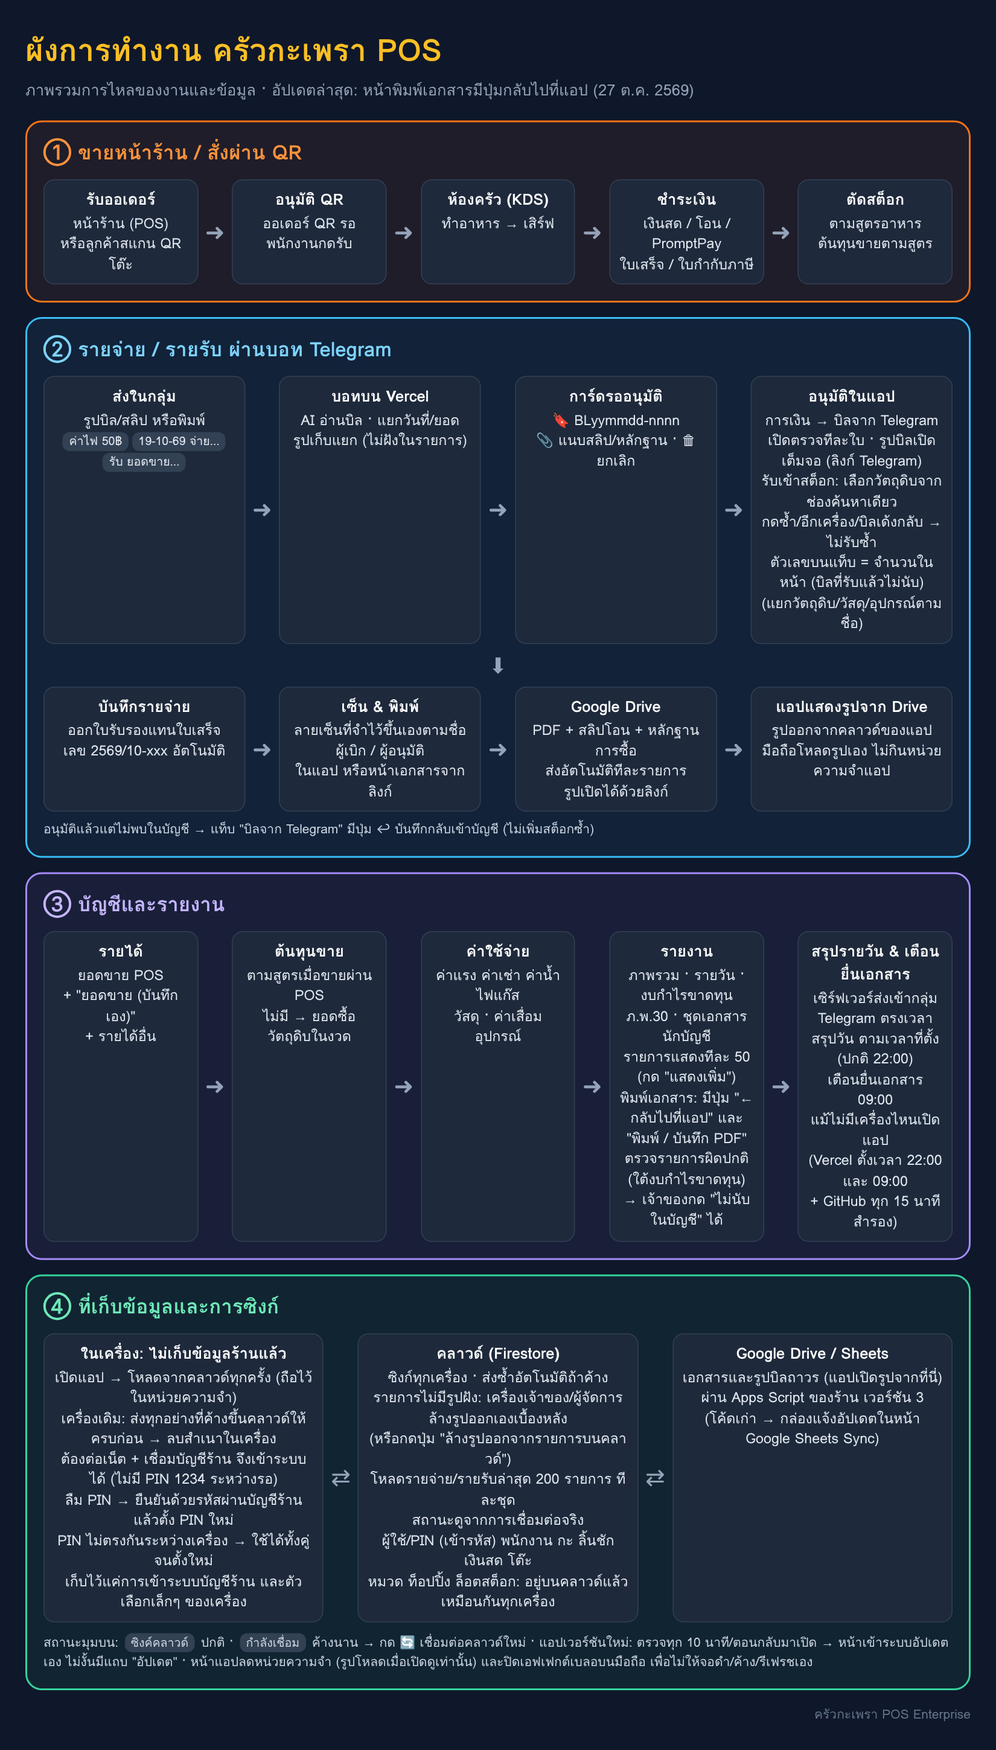
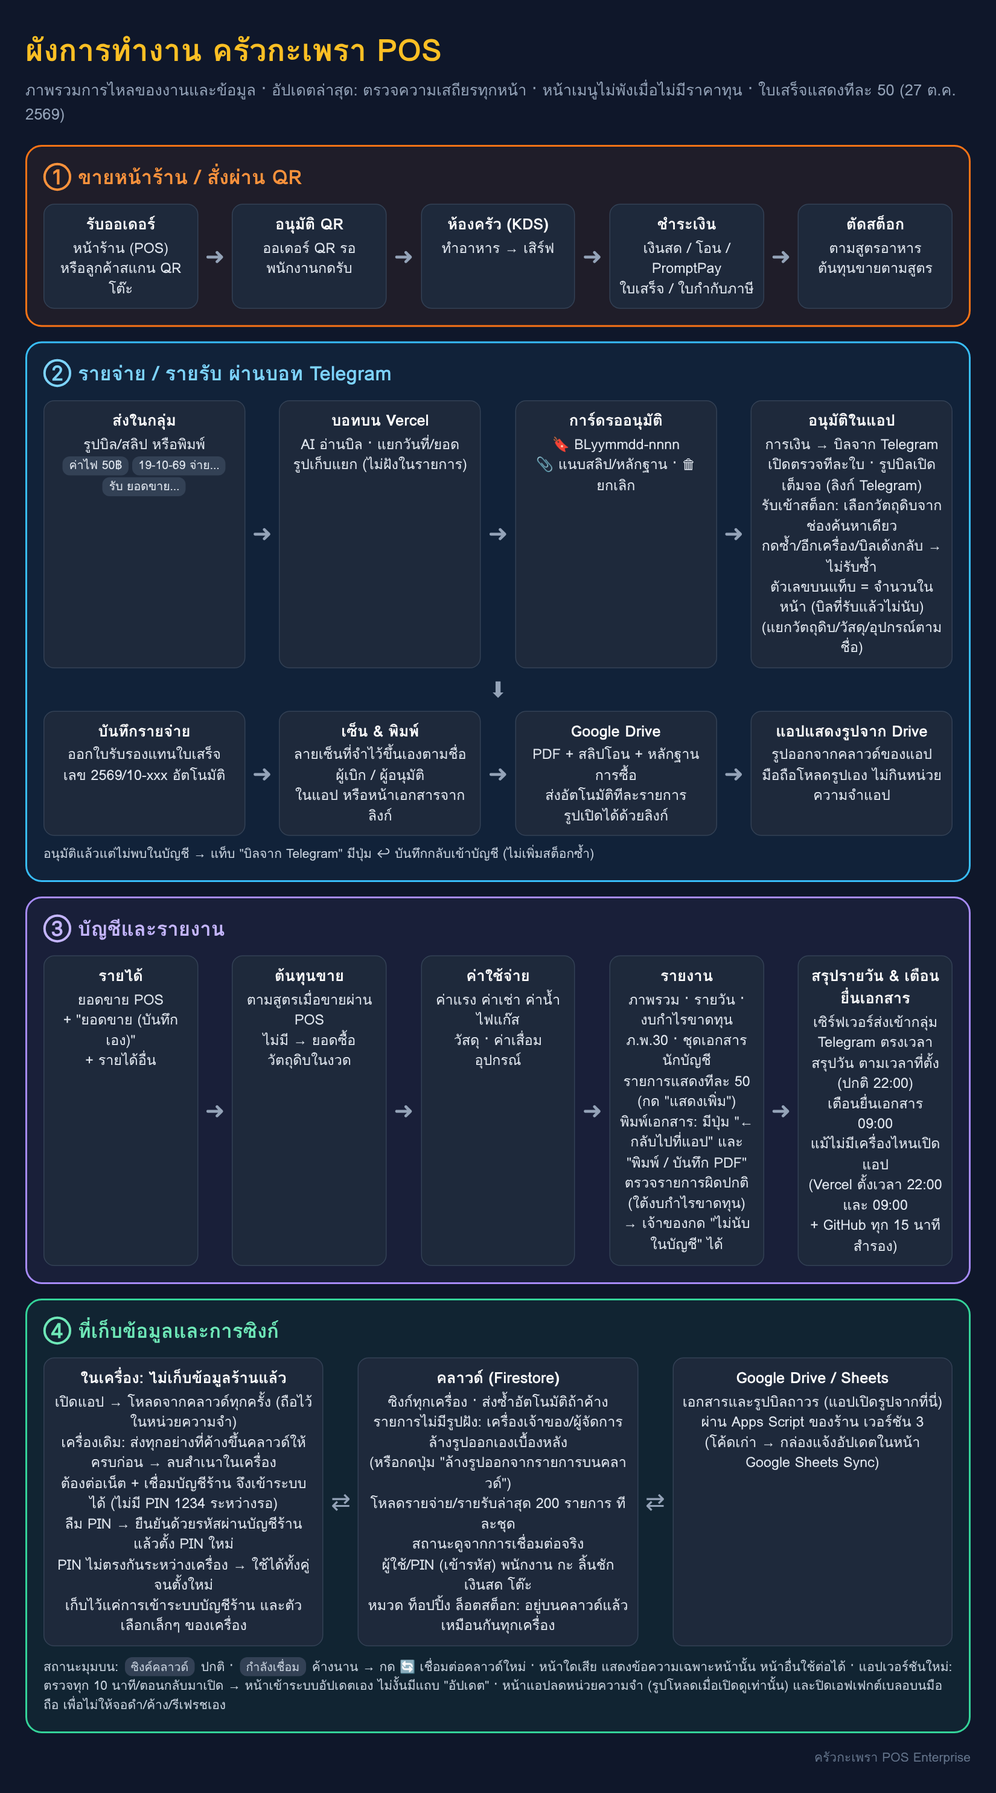
Stability check of every page: fix a crash, contain page errors, lighten receipts
All 35 pages opened in turn on a phone-sized screen, CPU slowed 4x, with
2,000 orders, 600 expenses, 300 income, 200 ingredients and 60 menu items:

- Menu management crashed (costPrice.toFixed of a menu item without a
  cost price) and the error screen replaced the whole app, so every page
  after it was blocked. Numbers shown with toFixed are read safely (a
  missing one shows 0.00), 20 places
- A page that fails now shows a message in its place (try again); the
  menu and the other pages keep working
- Receipts & tax invoices drew a row for every bill (3.6 s of work at 4x
  slowdown): 50 at a time with 'show more' (now 0.06 s)

After the fixes: no page errors, no crash, memory 19-43 MB and back to
26 MB at the end (no leak).

Claude-Session: https://claude.ai/code/session_01Gq3UvYW4wv3hsVCXoh5wxy

diff --git a/src/components/ExtendedViews.tsx b/src/components/ExtendedViews.tsx
@@ -2069,7 +2069,7 @@ export const RecipeCostingView: React.FC = () => {
                   <div className="bg-slate-950 p-3 rounded-xl border border-slate-800/80 space-y-1 text-xs">
                     <div className="flex justify-between text-slate-400">
                       <span>ต้นทุนวัตถุดิบ (Food Cost):</span>
-                      <span className="font-bold text-rose-400">฿{item.costPrice.toFixed(2)}</span>
+                      <span className="font-bold text-rose-400">฿{(Number(item.costPrice) || 0).toFixed(2)}</span>
                     </div>
                     <div className="flex justify-between text-slate-400">
                       <span>กำไรขั้นต้น (Margin):</span>
@@ -4263,7 +4263,7 @@ export const QuotationView: React.FC = () => {
                       <td className="p-2.5 font-mono text-slate-500">{i + 1}</td>
                       <td className="p-2.5 font-semibold text-slate-900">{item.name}</td>
                       <td className="p-2.5 text-center font-mono">{item.qty}</td>
-                      <td className="p-2.5 text-right font-mono">฿{item.price.toFixed(2)}</td>
+                      <td className="p-2.5 text-right font-mono">฿{(Number(item.price) || 0).toFixed(2)}</td>
                       <td className="p-2.5 text-right font-mono font-bold text-slate-900">฿{(item.qty * item.price).toFixed(2)}</td>
                     </tr>
                   ))}
@@ -6687,6 +6687,9 @@ export const TaxReceiptView: React.FC = () => {
 
     return matchType && matchSearch;
   });
+  // 50 rows at a time: a row for every bill (thousands) froze phones for seconds
+  const [receiptLimit, setReceiptLimit] = useState(50);
+  useEffect(() => setReceiptLimit(50), [filterType, searchTerm]);
 
   return (
     <div className="p-4 sm:p-6 space-y-6 max-w-7xl mx-auto animate-in fade-in duration-200">
@@ -6818,7 +6821,7 @@ export const TaxReceiptView: React.FC = () => {
             </thead>
             <tbody className="divide-y divide-slate-800/60">
               {filteredOrders.length > 0 ? (
-                filteredOrders.map(o => {
+                filteredOrders.slice(0, receiptLimit).map(o => {
                   const { base: vatBase, vat: vatAmount } = orderVatBreakdown(o);
                   const isFull = !!o.customerTaxInfo;
 
@@ -6847,7 +6850,7 @@ export const TaxReceiptView: React.FC = () => {
                       </td>
                       <td className="p-3.5 text-right font-mono text-slate-300">฿{vatBase.toFixed(2)}</td>
                       <td className="p-3.5 text-right font-mono text-amber-400">฿{vatAmount.toFixed(2)}</td>
-                      <td className="p-3.5 text-right font-mono font-bold text-emerald-400 text-sm">฿{o.grandTotal.toFixed(2)}</td>
+                      <td className="p-3.5 text-right font-mono font-bold text-emerald-400 text-sm">฿{(Number(o.grandTotal) || 0).toFixed(2)}</td>
                       <td className="p-3.5 text-center space-x-1.5">
                         <button
                           onClick={() => handleOpenEditTaxModal(o)}
@@ -6876,6 +6879,11 @@ export const TaxReceiptView: React.FC = () => {
             </tbody>
           </table>
         </div>
+        {filteredOrders.length > receiptLimit && (
+          <button type="button" onClick={() => setReceiptLimit(l => l + 50)} className="w-full h-11 border-t border-slate-800 text-slate-300 text-xs font-bold">
+            แสดงเพิ่ม ({receiptLimit} จาก {filteredOrders.length})
+          </button>
+        )}
       </div>
 
       {/* NEW RECEIPT / TAX INVOICE MODAL (ออกใบเสร็จรับเงิน / ใบกำกับภาษีใหม่) */}
@@ -6910,7 +6918,7 @@ export const TaxReceiptView: React.FC = () => {
                       <option value="">-- เลือกออเดอร์ POS --</option>
                       {receiptOrders.slice(0, 300).map(o => (
                         <option key={o.id} value={o.id}>
-                          {o.orderNumber} - ฿{o.grandTotal.toFixed(2)} ({o.customerTaxInfo?.companyName || 'ลูกค้าทั่วไป'})
+                          {o.orderNumber} - ฿{(Number(o.grandTotal) || 0).toFixed(2)} ({o.customerTaxInfo?.companyName || 'ลูกค้าทั่วไป'})
                         </option>
                       ))}
                     </select>
@@ -7480,7 +7488,7 @@ export const TaxReceiptView: React.FC = () => {
                         )}
                         <div>มูลค่าสินค้า (ก่อน VAT): ฿{vatBase.toFixed(2)}</div>
                         <div className="text-amber-700">ภาษีมูลค่าเพิ่ม (VAT): ฿{vat.toFixed(2)}</div>
-                        <div className="text-sm font-bold text-emerald-700 font-sans">ราคารวมทั้งสิ้น: ฿{printingOrder.grandTotal.toFixed(2)}</div>
+                        <div className="text-sm font-bold text-emerald-700 font-sans">ราคารวมทั้งสิ้น: ฿{(Number(printingOrder.grandTotal) || 0).toFixed(2)}</div>
                       </div>
                     </div>
                     <div className="bg-slate-50 p-2 rounded-lg border border-slate-200 text-center font-sans text-xs text-slate-800 font-bold">

diff --git a/docs/workflow/flow.html b/docs/workflow/flow.html
@@ -17,7 +17,7 @@ h1{margin:0 0 4px;font-size:34px;color:#fbbf24}.sub{color:#94a3b8;font-size:17px
 .foot{color:#64748b;font-size:14px;margin-top:6px;text-align:right}
 </style></head><body>
 <h1>ผังการทำงาน ครัวกะเพรา POS</h1>
-<div class="sub">ภาพรวมการไหลของงานและข้อมูล · อัปเดตล่าสุด: หน้าพิมพ์เอกสารมีปุ่มกลับไปที่แอป (27 ต.ค. 2569)</div>
+<div class="sub">ภาพรวมการไหลของงานและข้อมูล · อัปเดตล่าสุด: ตรวจความเสถียรทุกหน้า · หน้าเมนูไม่พังเมื่อไม่มีราคาทุน · ใบเสร็จแสดงทีละ 50 (27 ต.ค. 2569)</div>
 
 <div class="lane pos"><h2>① ขายหน้าร้าน / สั่งผ่าน QR</h2>
 <div class="row">
@@ -60,7 +60,7 @@ h1{margin:0 0 4px;font-size:34px;color:#fbbf24}.sub{color:#94a3b8;font-size:17px
 <div class="box"><b>คลาวด์ (Firestore)</b>ซิงก์ทุกเครื่อง · ส่งซ้ำอัตโนมัติถ้าค้าง<br>รายการไม่มีรูปฝัง: เครื่องเจ้าของ/ผู้จัดการล้างรูปออกเองเบื้องหลัง<br>(หรือกดปุ่ม "ล้างรูปออกจากรายการบนคลาวด์")<br>โหลดรายจ่าย/รายรับล่าสุด 200 รายการ ทีละชุด<br>สถานะดูจากการเชื่อมต่อจริง<br>ผู้ใช้/PIN (เข้ารหัส) พนักงาน กะ ลิ้นชักเงินสด โต๊ะ<br>หมวด ท็อปปิ้ง ล็อตสต็อก: อยู่บนคลาวด์แล้ว เหมือนกันทุกเครื่อง</div><div class="ar">⇄</div>
 <div class="box"><b>Google Drive / Sheets</b>เอกสารและรูปบิลถาวร (แอปเปิดรูปจากที่นี่)<br>ผ่าน Apps Script ของร้าน เวอร์ชัน 3<br>(โค้ดเก่า → กล่องแจ้งอัปเดตในหน้า Google Sheets Sync)</div>
 </div>
-<div class="note">สถานะมุมบน: <span class="tag">ซิงค์คลาวด์</span> ปกติ · <span class="tag">กำลังเชื่อม</span> ค้างนาน → กด 🔄 เชื่อมต่อคลาวด์ใหม่ · แอปเวอร์ชันใหม่: ตรวจทุก 10 นาที/ตอนกลับมาเปิด → หน้าเข้าระบบอัปเดตเอง ไม่งั้นมีแถบ "อัปเดต" · หน้าแอปลดหน่วยความจำ (รูปโหลดเมื่อเปิดดูเท่านั้น) และปิดเอฟเฟกต์เบลอบนมือถือ เพื่อไม่ให้จอดำ/ค้าง/รีเฟรชเอง</div>
+<div class="note">สถานะมุมบน: <span class="tag">ซิงค์คลาวด์</span> ปกติ · <span class="tag">กำลังเชื่อม</span> ค้างนาน → กด 🔄 เชื่อมต่อคลาวด์ใหม่ · หน้าใดเสีย แสดงข้อความเฉพาะหน้านั้น หน้าอื่นใช้ต่อได้ · แอปเวอร์ชันใหม่: ตรวจทุก 10 นาที/ตอนกลับมาเปิด → หน้าเข้าระบบอัปเดตเอง ไม่งั้นมีแถบ "อัปเดต" · หน้าแอปลดหน่วยความจำ (รูปโหลดเมื่อเปิดดูเท่านั้น) และปิดเอฟเฟกต์เบลอบนมือถือ เพื่อไม่ให้จอดำ/ค้าง/รีเฟรชเอง</div>
 </div>
 <div class="foot">ครัวกะเพรา POS Enterprise</div>
 </body></html>

diff --git a/src/components/accounting/AccountingView.tsx b/src/components/accounting/AccountingView.tsx
@@ -1662,13 +1662,13 @@ export const AccountingView: React.FC = () => {
       .filter(o => o.branchId === currentBranch.id && countsAsRevenue(o) && inMonths(o.createdAt))
       .forEach(o => {
         const { vat, base } = orderVatBreakdown(o);
-        rows.push(['รายได้จากการขาย', o.orderNumber, getLocalDateString(new Date(o.createdAt)), `ขายอาหาร (${o.paymentMethod})`, o.orderType === 'delivery' ? 'ขายเดลิเวอรี' : 'ขายหน้าร้าน', o.grandTotal.toFixed(2), vat.toFixed(2), base.toFixed(2)]);
+        rows.push(['รายได้จากการขาย', o.orderNumber, getLocalDateString(new Date(o.createdAt)), `ขายอาหาร (${o.paymentMethod})`, o.orderType === 'delivery' ? 'ขายเดลิเวอรี' : 'ขายหน้าร้าน', (Number(o.grandTotal) || 0).toFixed(2), vat.toFixed(2), base.toFixed(2)]);
       });
     (incomes || [])
       .filter(inc => own(inc.branchId) && inMonths(inc.date))
       .forEach(inc => {
         const isSales = SALES_INCOME_CATEGORIES.includes(inc.category);
-        rows.push([isSales ? 'รายได้จากการขาย' : 'รายได้อื่น', inc.refNumber || '-', inc.date, inc.title, incomeCategoryLabels[inc.category] || inc.category, inc.amount.toFixed(2), '0.00', inc.amount.toFixed(2)]);
+        rows.push([isSales ? 'รายได้จากการขาย' : 'รายได้อื่น', inc.refNumber || '-', inc.date, inc.title, incomeCategoryLabels[inc.category] || inc.category, (Number(inc.amount) || 0).toFixed(2), '0.00', (Number(inc.amount) || 0).toFixed(2)]);
       });
     expenses
       .filter(e => own(e.branchId) && inMonths(e.date))
@@ -1709,7 +1709,7 @@ export const AccountingView: React.FC = () => {
         inc.paymentMethod ? (incomePaymentMethodLabels[inc.paymentMethod] || inc.paymentMethod) : 'ไม่ระบุ',
         inc.payerName || '-',
         inc.refNumber || '-',
-        inc.amount.toFixed(2),
+        (Number(inc.amount) || 0).toFixed(2),
         inc.note || '-'
       ]);
     });

diff --git a/src/components/settings/SettingsView.tsx b/src/components/settings/SettingsView.tsx
@@ -2471,7 +2471,7 @@ export const SettingsView: React.FC = () => {
                           <div className="p-2 bg-emerald-950/50 rounded-lg border border-emerald-500/30">
                             <span className="text-[10px] text-emerald-300 block">ยอดรวมเก็บเงินลูกค้า</span>
                             <span className="font-mono font-extrabold text-emerald-400">
-                              ฿{sampleCalc.grandTotal.toFixed(2)}
+                              ฿{(Number(sampleCalc.grandTotal) || 0).toFixed(2)}
                             </span>
                           </div>
                         </div>
@@ -2480,7 +2480,7 @@ export const SettingsView: React.FC = () => {
                           <span>
                             {vatType === 'inclusive'
                               ? `ราคาสินค้า 100 บาท รวมภาษี VAT ${vatRate}% แล้ว (ภาษีคือ ฿${sampleCalc.vatAmount.toFixed(2)} ยอดเก็บลูกค้าคือ ฿100)`
-                              : `ราคาสินค้า 100 บาท ยังไม่รวมภาษี VAT ${vatRate}% (บวกภาษีเพิ่ม ฿${sampleCalc.vatAmount.toFixed(2)} ยอดเก็บลูกค้าคือ ฿${sampleCalc.grandTotal.toFixed(2)})`}
+                              : `ราคาสินค้า 100 บาท ยังไม่รวมภาษี VAT ${vatRate}% (บวกภาษีเพิ่ม ฿${sampleCalc.vatAmount.toFixed(2)} ยอดเก็บลูกค้าคือ ฿${(Number(sampleCalc.grandTotal) || 0).toFixed(2)})`}
                           </span>
                         </p>
                       </>

diff --git a/src/components/PageErrorBoundary.tsx b/src/components/PageErrorBoundary.tsx
@@ -1,0 +1,35 @@
+import React, { ErrorInfo, ReactNode } from 'react';
+import { AlertTriangle, RefreshCw } from 'lucide-react';
+
+/**
+ * One page that fails shows a message in its place; the menu and the other pages keep working
+ * (a failure anywhere used to replace the whole app with the error screen).
+ */
+export class PageErrorBoundary extends React.Component<{ children?: ReactNode }, { error: Error | null }> {
+  state = { error: null as Error | null };
+
+  static getDerivedStateFromError(error: Error) {
+    return { error };
+  }
+
+  componentDidCatch(error: Error, info: ErrorInfo) {
+    console.error('Page error:', error, info.componentStack);
+  }
+
+  render() {
+    if (!this.state.error) return this.props.children;
+    return (
+      <div className="p-4 sm:p-8 flex justify-center">
+        <div className="max-w-md w-full rounded-2xl border border-rose-800/60 bg-rose-950/30 p-5 text-center space-y-3 text-sm text-slate-200">
+          <AlertTriangle className="w-8 h-8 text-rose-400 mx-auto" />
+          <div className="font-bold">หน้านี้แสดงผลไม่ได้</div>
+          <div className="text-xs text-slate-400 break-words">{this.state.error.message}</div>
+          <div className="text-xs text-slate-400">ข้อมูลไม่หาย เลือกหน้าอื่นจากเมนูได้ตามปกติ</div>
+          <button type="button" onClick={() => this.setState({ error: null })} className="h-10 px-4 rounded-xl bg-slate-800 border border-slate-700 font-bold inline-flex items-center gap-2">
+            <RefreshCw className="w-4 h-4" /> ลองอีกครั้ง
+          </button>
+        </div>
+      </div>
+    );
+  }
+}

diff --git a/src/context/POSContext.tsx b/src/context/POSContext.tsx
@@ -158,7 +158,7 @@ import { SHOP_LOGO_URL, normalizeShopLogoUrl } from '../assets/logo';
 
 export function computeOrderChecksum(order: Order): string {
   const itemsCount = order.items ? order.items.length : 0;
-  const rawStr = `${order.id}:${order.orderNumber || ''}:${order.grandTotal.toFixed(2)}:${itemsCount}:${order.createdAt || ''}:${order.paymentMethod}`;
+  const rawStr = `${order.id}:${order.orderNumber || ''}:${(Number(order.grandTotal) || 0).toFixed(2)}:${itemsCount}:${order.createdAt || ''}:${order.paymentMethod}`;
   return crc16(rawStr);
 }
 
@@ -1755,7 +1755,7 @@ export const POSProvider: React.FC<{ children: ReactNode }> = ({ children }) => 
             syncLogsTable.push({
               'Order ID': ord.id,
               'Order #': ord.orderNumber,
-              'Grand Total (฿)': ord.grandTotal.toFixed(2),
+              'Grand Total (฿)': (Number(ord.grandTotal) || 0).toFixed(2),
               'Items': ord.items?.length || 0,
               'Payment': ord.paymentMethod,
               'Checksum': computedChecksum,
@@ -1775,7 +1775,7 @@ export const POSProvider: React.FC<{ children: ReactNode }> = ({ children }) => 
             syncLogsTable.push({
               'Order ID': ord.id,
               'Order #': ord.orderNumber,
-              'Grand Total (฿)': ord.grandTotal.toFixed(2),
+              'Grand Total (฿)': (Number(ord.grandTotal) || 0).toFixed(2),
               'Items': ord.items?.length || 0,
               'Payment': ord.paymentMethod,
               'Checksum': computedChecksum,

diff --git a/src/App.tsx b/src/App.tsx
@@ -37,6 +37,7 @@ import { FilingReminder } from './components/filings/FilingReminder';
 import { ScheduleSync } from './components/ScheduleSync';
 import { ShopAccountBanner } from './components/ShopAccountBanner';
 import { UpdateWatcher } from './components/UpdateWatcher';
+import { PageErrorBoundary } from './components/PageErrorBoundary';
 import { AutoCloudPictureCleanup } from './components/settings/CloudPictureCleanup';
 import { startupCrashes } from './utils/bootGuard';
 import { canOpenTab, firstAllowedTab } from './utils/access';
@@ -187,7 +188,7 @@ const MainLayout: React.FC = () => {
           }
         >
         {!tabAllowed ? null : (
-        <>
+        <PageErrorBoundary key={activeTab}>
         {(activeTab === 'dashboard' || activeTab === 'analytics') && <ExecutiveDashboardView />}
         {activeTab === 'pos' && <POSView />}
         {activeTab === 'qr' && <QrOrderingView />}
@@ -202,7 +203,7 @@ const MainLayout: React.FC = () => {
         {activeTab === 'crm' && <CRMView />}
         {activeTab === 'line_notify' && <LineNotifyView />}
         {activeTab === 'settings' && <SettingsView />}
-        </>
+        </PageErrorBoundary>
         )}
         </React.Suspense>
       </main>

diff --git a/src/components/pos/CancelOrderModal.tsx b/src/components/pos/CancelOrderModal.tsx
@@ -141,7 +141,7 @@ export const CancelOrderModal: React.FC<CancelOrderModalProps> = ({
               <p className="text-xs text-rose-300/70">
                 {order.orderType === 'dine-in' ? `โต๊ะ ${order.tableNumber || '-'}` : order.orderType === 'takeaway' ? 'ใส่กล่อง' : 'เดลิเวอรี่'}
                 {' • '}
-                ฿{order.grandTotal.toFixed(2)} ({order.items.length} รายการ)
+                ฿{(Number(order.grandTotal) || 0).toFixed(2)} ({order.items.length} รายการ)
               </p>
             </div>
           </div>

diff --git a/src/components/accounting/AIReceiptScannerModal.tsx b/src/components/accounting/AIReceiptScannerModal.tsx
@@ -2043,7 +2043,7 @@ export const AIReceiptScannerModal: React.FC<AIReceiptScannerModalProps> = ({
 
                               <div className="flex items-center justify-between sm:justify-end space-x-2 shrink-0">
                                 <span className="font-mono font-bold text-rose-300 text-xs">
-                                  ฿{item.amount.toFixed(2)}
+                                  ฿{(Number(item.amount) || 0).toFixed(2)}
                                 </span>
 
                                 {autoUpdateStock && (

diff --git a/src/components/pos/ReceiptModal.tsx b/src/components/pos/ReceiptModal.tsx
@@ -569,7 +569,7 @@ export const ReceiptModal: React.FC<ReceiptModalProps> = ({ isOpen, onClose, ord
               )}
               <div className="receipt-grand-total flex justify-between font-extrabold text-slate-900 border-t border-b border-slate-800 py-1.5 my-1 text-sm">
                 <span>จำนวนเงินทั้งสิ้น:</span>
-                <span>{order.grandTotal.toFixed(2)} ฿</span>
+                <span>{(Number(order.grandTotal) || 0).toFixed(2)} ฿</span>
               </div>
             </div>
 

diff --git a/src/components/OfflineSyncModal.tsx b/src/components/OfflineSyncModal.tsx
@@ -251,7 +251,7 @@ export const OfflineSyncModal: React.FC<OfflineSyncModalProps> = ({ isOpen, onCl
                         ({ord.items.length} รายการ - {ord.paymentMethod})
                       </span>
                     </div>
-                    <span className="font-bold text-emerald-400">฿{ord.grandTotal.toFixed(2)}</span>
+                    <span className="font-bold text-emerald-400">฿{(Number(ord.grandTotal) || 0).toFixed(2)}</span>
                   </div>
                 ))}
               </div>

diff --git a/src/components/orders/OrderHistoryView.tsx b/src/components/orders/OrderHistoryView.tsx
@@ -1015,7 +1015,7 @@ export const OrderHistoryView: React.FC = () => {
                   ) : null}
                   <div className="flex justify-between font-extrabold text-sm border-t border-dashed border-slate-300 pt-1.5">
                     <span>ยอดสุทธิ</span>
-                    <span>฿{selectedOrderForDetail.grandTotal.toFixed(2)}</span>
+                    <span>฿{(Number(selectedOrderForDetail.grandTotal) || 0).toFixed(2)}</span>
                   </div>
                 </div>
 
